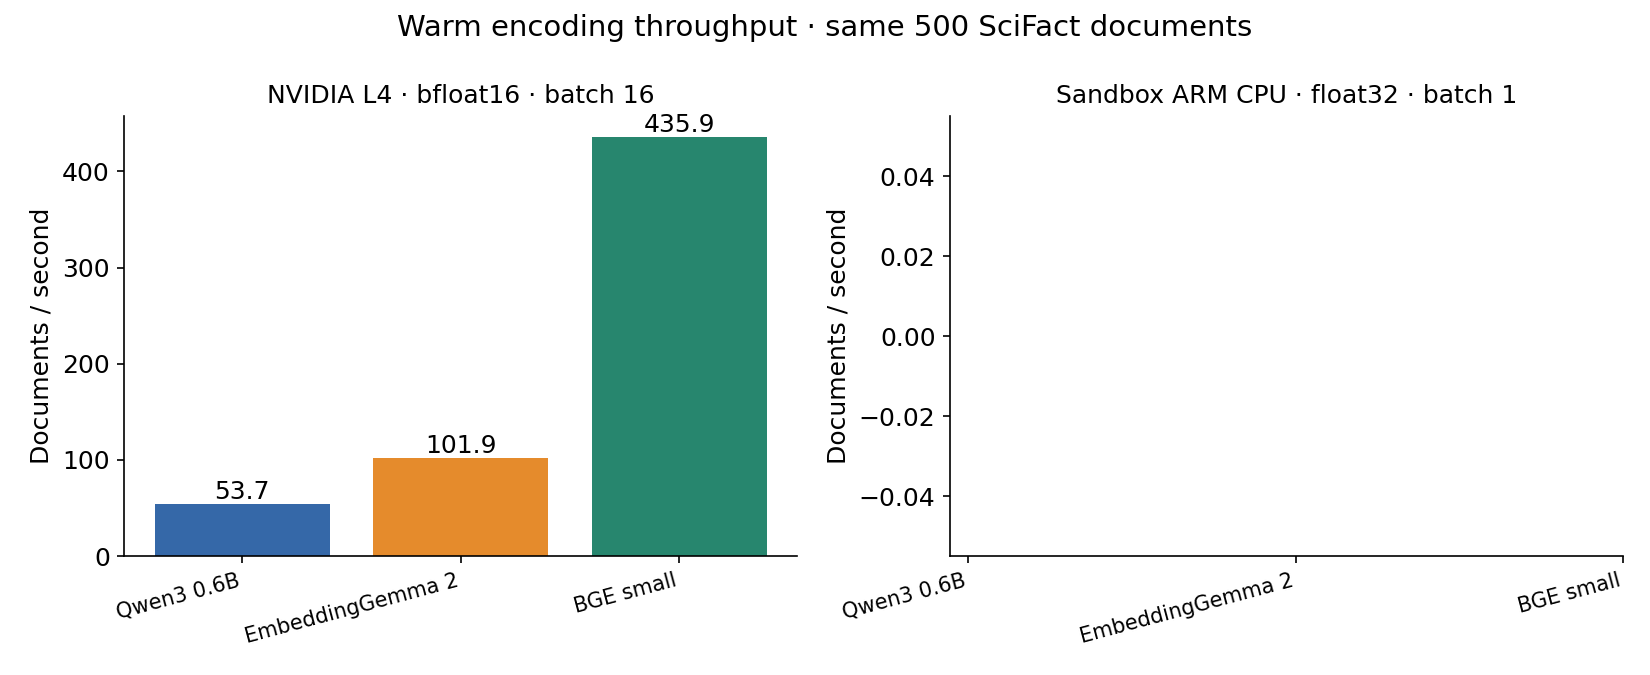
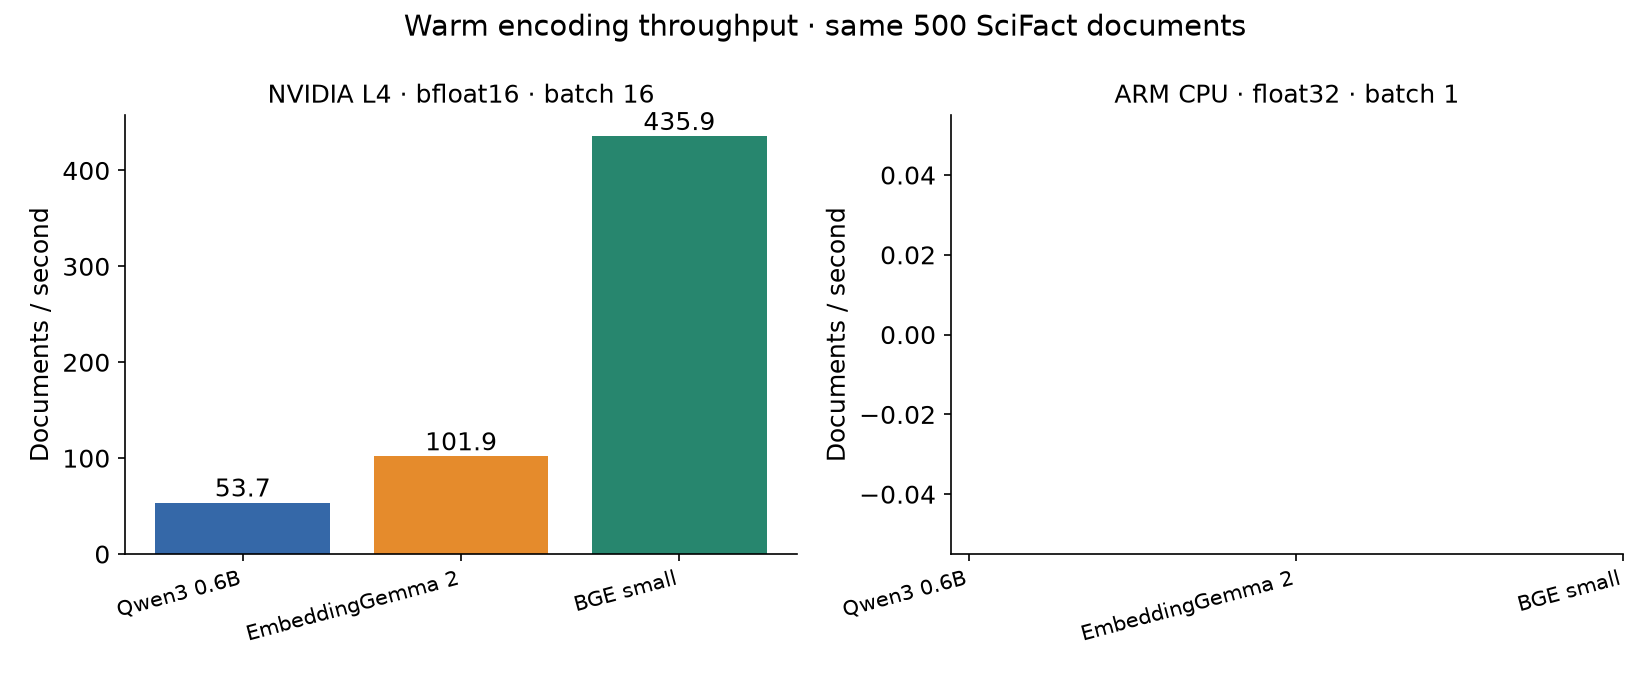
Rename internal IDs to descriptive names

diff --git a/scripts/make_writeup.py b/scripts/make_writeup.py
@@ -11,7 +11,7 @@ sv='INCONCLUSIVE' if any(speed[k,d] is None for k in ['qwen','gemma'] for d in [
 qv=h['quality_verdict'];verdict='DISPROVEN' if 'DISPROVEN' in [qv,sv] else 'PROVEN' if qv==sv=='PROVEN' else 'INCONCLUSIVE'
 ver={'overall':verdict,'quality':qv,'speed_size':sv};(R/'verdict.json').write_text(json.dumps(ver,indent=2))
 lines=[f"# {h['winner']} found {h['relative_recall10_pct']:.1f}% more relevant documents",'',
-f"Experiment 098 · Hari's Tech in General · Measured 17 October 2026",'',
+f"Hari's Tech in General · Measured 17 October 2026",'',
 f"**Verdict: {verdict}** for the joint hypothesis that Qwen wins English quality while EmbeddingGemma is faster and smaller. The predeclared English-quality test is **{qv}**; the speed-and-size test is **{sv}**.",'',
 f"The headline compares the two principal models at ten retrieval slots, using the equal-dataset mean of query-level Recall@10; its paired-bootstrap 95% interval is **{h['lo']:.2f}% to {h['hi']:.2f}%** relative improvement. It describes the share of judged relevant documents recovered, not a raw count pooled across unequal datasets.",'',
 'The headline recall interval only narrowly clears zero; this is borderline evidence for the recall gain. The stronger statistical result is the predeclared ranking-quality comparison below.','',
@@ -31,11 +31,11 @@ for ds in DS+['macro']:
 lines+=['','The primary comparison is Qwen minus Google in equal-dataset macro nDCG@10. We drew 10,000 paired bootstrap samples, resampling queries within each dataset with seed 98. The interval must exclude zero in Qwen’s favor to prove its quality hypothesis; excluding zero against Qwen disproves it. These are pointwise 95% intervals without multiplicity adjustment; only the predeclared macro nDCG comparison determines the quality verdict. They reflect query sampling within these benchmarks, not uncertainty over all future domains.','','| Macro paired difference: Qwen − Google | Points | 95% CI |','|---|---:|---:|']
 for m in ['ndcg10','recall10','recall100']:
  z=p[(p.a=='qwen')&(p.b=='gemma')&(p.dataset=='macro')&(p.metric==m)].iloc[0];lines.append(f"| {m} | {100*z.difference:+.2f} | [{100*z.lo:+.2f}, {100*z.hi:+.2f}] |")
-lines+=['','Google’s average advantage came mainly from SciFact; Qwen won ArguAna. This domain crossover is a reason to test an embedder on your own corpus. All per-dataset paired intervals, including baseline comparisons, are saved in `results/paired_differences.csv`.','','## Size and encoding speed','','One warmed timed pass over the same first 500 SciFact documents (sorted IDs), excluding download, load, and search. L4 uses bfloat16 and batch 16; the two-core ARM Neoverse-V2 sandbox uses float32 and batch 1, with two Torch threads. The clock includes tokenizer, forward pass, normalization, and returning NumPy embeddings. Different prompts yield slightly different token counts.','','| Model | Loaded parameters | Native dimensions | L4 docs/s | CPU docs/s |','|---|---:|---:|---:|---:|']
+lines+=['','Google’s average advantage came mainly from SciFact; Qwen won ArguAna. This domain crossover is a reason to test an embedder on your own corpus. All per-dataset paired intervals, including baseline comparisons, are saved in `results/paired_differences.csv`.','','## Size and encoding speed','','One warmed timed pass over the same first 500 SciFact documents (sorted IDs), excluding download, load, and search. L4 uses bfloat16 and batch 16; the two-core ARM Neoverse-V2 CPU uses float32 and batch 1, with two Torch threads. The clock includes tokenizer, forward pass, normalization, and returning NumPy embeddings. Different prompts yield slightly different token counts.','','| Model | Loaded parameters | Native dimensions | L4 docs/s | CPU docs/s |','|---|---:|---:|---:|---:|']
 for k in KS:
  fmt=lambda v:'unavailable' if v is None else f'{v:.2f}'
  lines.append(f"| {names[k]} | {models[k]['parameters']/1e6:.1f}M | {models[k]['embedding_dim']} | {fmt(speed[k,'gpu'])} | {fmt(speed[k,'cpu'])} |")
-lines+=['','EmbeddingGemma 2’s full multimodal checkpoint is approximately 744M parameters; only its approximately 271M text backbone is loaded here. Parameter counts describe the deployed text configurations, not the total bytes of every downloadable model artifact. The size claim therefore applies to text-only deployment.','','![Warm document encoding throughput](figures/speed.png)','','Speed is a single-pass observation, with no throughput confidence interval. It is conditional on these batch sizes, document lengths, dtypes, software, and shared sandbox conditions; it is not a claim about every CPU or serving stack. All final L4 runs use upstream Transformers 5.21.0.dev0 (commit recorded in the logs), required for the newly released Google architecture. Initial Qwen/BGE results on 5.18.0 are archived separately and excluded from the final comparison; both models were rerun on the common stack. All final CPU models also use the same pinned Transformers 5.21.0.dev0 commit, with PyTorch 2.14.1+cpu; the isolated package install is recorded in the logs. Full package snapshots and checkpoint revisions are archived.','','## Hindi and Telugu mini-check','']
+lines+=['','EmbeddingGemma 2’s full multimodal checkpoint is approximately 744M parameters; only its approximately 271M text backbone is loaded here. Parameter counts describe the deployed text configurations, not the total bytes of every downloadable model artifact. The size claim therefore applies to text-only deployment.','','![Warm document encoding throughput](figures/speed.png)','','Speed is a single-pass observation, with no throughput confidence interval. It is conditional on these batch sizes, document lengths, dtypes, software, and shared host conditions; it is not a claim about every CPU or serving stack. All final L4 runs use upstream Transformers 5.21.0.dev0 (commit recorded in the logs), required for the newly released Google architecture. Initial Qwen/BGE results on 5.18.0 are archived separately and excluded from the final comparison; both models were rerun on the common stack. All final CPU models also use the same pinned Transformers 5.21.0.dev0 commit, with PyTorch 2.14.1+cpu; the isolated package install is recorded in the logs. Full package snapshots and checkpoint revisions are archived.','','## Hindi and Telugu mini-check','']
 mini=s[s.dataset.isin(['miracl_hi','miracl_te'])]
 if len(mini):
  lines+=['This is an **exploratory pooled-candidate diagnostic**, not full MIRACL retrieval. For each language we took the first 200 lexicographic dev query IDs, included all their judged positive documents, and added the first 1,000 other corpus documents. Candidate construction uses relevance labels and is deliberately easier than searching the complete corpus; these scores must not be compared with MIRACL leaderboard values or used to claim broad multilingual superiority.','','| Language | Queries | Candidate docs | Model | nDCG@10 | Recall@10 | Recall@100 |','|---|---:|---:|---|---:|---:|---:|']
@@ -48,7 +48,7 @@ if len(mini):
    lines.append('| '+' | '.join([lang,str(len(d['queries'])),str(len(d['corpus'])),names[k]]+vals)+' |')
  lines+=['','![Exploratory multilingual pooled retrieval](figures/multilingual.png)']
 else:lines+=['No multilingual measurements completed; see saved feasibility/error artifacts. This optional check does not change the English verdict.']
-lines+=['','## Plain-English takeaway','',f"{h['winner']} retrieved slightly more known relevant material on average across these three English tests. Qwen did better on argument retrieval, so test your own documents before choosing a model.",'','## Limits and reproducibility','','These are three small, public benchmarks that may have appeared in model training; we cannot measure training contamination. The 512-token cap truncates long material and suppresses the models’ larger context windows. BGE is an English-focused baseline, so its Hindi/Telugu check is outside its intended specialization. Unjudged documents are treated as nonrelevant, as in benchmark evaluation. No inference-service APIs, private data, or model tuning were used.','','`README.md` contains the pre-measurement plan and recorded corrections. Raw per-query metrics, top-100 English rankings, qrels/data snapshots, revisions, timing JSON, paired intervals, and an independent metric reconstruction check are in `results/`; scripts are resumable. `figures/colab_run.txt` includes GPU identification and timing evidence. GPU lifetime/CU accounting and the local commit are documented with the delivered experiment.']
+lines+=['','## Plain-English takeaway','',f"{h['winner']} retrieved slightly more known relevant material on average across these three English tests. Qwen did better on argument retrieval, so test your own documents before choosing a model.",'','## Limits and reproducibility','','These are three small, public benchmarks that may have appeared in model training; we cannot measure training contamination. The 512-token cap truncates long material and suppresses the models’ larger context windows. BGE is an English-focused baseline, so its Hindi/Telugu check is outside its intended specialization. Unjudged documents are treated as nonrelevant, as in benchmark evaluation. No inference-service APIs, private data, or model tuning were used.','','`README.md` contains the pre-measurement plan and recorded corrections. Raw per-query metrics, top-100 English rankings, qrels/data snapshots, revisions, timing JSON, paired intervals, and an independent metric reconstruction check are in `results/`; scripts are resumable. `figures/colab_run.txt` includes GPU identification and timing evidence. GPU lifetime/CU accounting is recorded in `results/compute_usage.json`.']
 if (R/'linear_gain_summary.csv').exists():
  z=pd.read_csv(R/'linear_gain_summary.csv');d=json.load(open(R/'linear_gain_paired_macro.json'))
  extra=['## BEIR definition sensitivity','','For readers comparing with BEIR/trec_eval, the supplemental table uses linear gains in nDCG@10; the fixed primary test above retains exponential gains. The two definitions differ only on graded NFCorpus judgments in these datasets.','','| Equal-dataset mean | Linear nDCG@10 ×100 [95% CI] |','|---|---:|']
@@ -57,6 +57,6 @@ if (R/'linear_gain_summary.csv').exists():
  extra+=['',f"The paired linear-gain macro difference (Qwen − Google) is {100*d['difference']:+.2f} points [95% CI {100*d['lo']:+.2f}, {100*d['hi']:+.2f}]. This is a definition sensitivity, not an alternative decision rule.",'']
  ix=lines.index('## Size and encoding speed');lines[ix:ix]=extra
 u=json.load(open(R/'compute_usage.json'))
-lines+=['','## Compute accounting','',f"NVIDIA L4; session `b6-098` stopped. Resumed allocation: approximately {u['resumed_lifetime_estimated_cu']:.3f} CU from lifetime × 1.54 CU/hour. Including the interrupted allocation, attributable usage is bounded at approximately **{u['total_cu_bounds'][0]:.2f}–{u['total_cu_bounds'][1]:.2f} CU**; its exact termination time was lost, so an exact billing total is unavailable. The account balance also includes concurrent experiments and is not used as this experiment’s cost. See `results/compute_usage.json` and `figures/colab_stop.txt`."]
+lines+=['','## Compute accounting','',f"NVIDIA L4; session `embedding-comparison` stopped. Resumed allocation: approximately {u['resumed_lifetime_estimated_cu']:.3f} CU from lifetime × 1.54 CU/hour. Including the interrupted allocation, attributable usage is bounded at approximately **{u['total_cu_bounds'][0]:.2f}–{u['total_cu_bounds'][1]:.2f} CU**; its exact termination time was lost, so an exact billing total is unavailable. The account balance also includes concurrent experiments and is not used as this experiment’s cost. See `results/compute_usage.json` and `figures/colab_stop.txt`."]
 Path('writeup.md').write_text('\n'.join(lines)+'\n')
 print(json.dumps(ver,indent=2))

diff --git a/scripts/resume_restore.py b/scripts/resume_restore.py
@@ -1,7 +1,7 @@
 import tarfile,subprocess,shutil,json,time
 from pathlib import Path
-r=Path('/content/exp098');r.mkdir(exist_ok=True)
-with tarfile.open('/content/restore098.tar.gz') as t:t.extractall(r,filter='data')
+r=Path('/content/embedding-comparison');r.mkdir(exist_ok=True)
+with tarfile.open('/content/restore_embeddings.tar.gz') as t:t.extractall(r,filter='data')
 p=r/'results/miracl_te_data.json';p.parent.mkdir(exist_ok=True);shutil.copy('/content/miracl_te_data.json',p)
 a=r/'results/initial_stack';a.mkdir(exist_ok=True)
 for k in ['qwen','bge']:
@@ -10,7 +10,7 @@ for k in ['qwen','bge']:
   elif p.name.endswith(('_metrics.csv','_top100.json','_gpu_speed.json')):shutil.move(p,a/p.name)
 script="""import subprocess,time,json
 from pathlib import Path
-r=Path('/content/exp098')
+r=Path('/content/embedding-comparison')
 while not Path('/content/install_done').exists():time.sleep(2)
 with open(r/'resume_run.log','a') as f:
  for s in ['/content/run_eval.py','/content/mini_multilingual.py']:

diff --git a/scripts/resume_install.py b/scripts/resume_install.py
@@ -4,6 +4,6 @@ script="""import subprocess
 p=subprocess.run(['pip','install','--no-deps','--upgrade','git+https://github.com/huggingface/transformers.git@8498ed425fa01bbee7d086efdf1a6634c2962aed'],check=True)
 open('/content/install_done','w').write('ok')
 """
-Path('/content/install098.py').write_text(script)
-p=subprocess.Popen(['python','-u','/content/install098.py'],stdout=open('/content/install098.log','w'),stderr=subprocess.STDOUT,start_new_session=True)
+Path('/content/install_embeddings.py').write_text(script)
+p=subprocess.Popen(['python','-u','/content/install_embeddings.py'],stdout=open('/content/install_embeddings.log','w'),stderr=subprocess.STDOUT,start_new_session=True)
 print('installer PID',p.pid)

diff --git a/scripts/analyze.py b/scripts/analyze.py
@@ -48,7 +48,7 @@ for k in KS:
  speeds.append(row)
 pd.DataFrame(speeds).to_csv(R/'speeds.csv',index=False)
 fig,axes=plt.subplots(1,2,figsize=(11,4.5))
-for ax,dev,title in zip(axes,['gpu','cpu'],['NVIDIA L4 · bfloat16 · batch 16','Sandbox ARM CPU · float32 · batch 1']):
+for ax,dev,title in zip(axes,['gpu','cpu'],['NVIDIA L4 · bfloat16 · batch 16','ARM CPU · float32 · batch 1']):
  vals=[x[dev] for x in speeds];ax.bar(range(3),vals,color=colors);ax.set_xticks(range(3),[NAMES[k] for k in KS],rotation=15,ha='right',fontsize=10);ax.set_ylabel('Documents / second');ax.set_title(title,fontsize=12)
  for i,v in enumerate(vals):
   if np.isfinite(v):ax.text(i,v,f'{v:.1f}',ha='center',va='bottom')

diff --git a/scripts/plot_speed.py b/scripts/plot_speed.py
@@ -14,7 +14,7 @@ for k in KS:
  speeds.append(row)
 pd.DataFrame(speeds).to_csv(R/'speeds.csv',index=False)
 fig,axes=plt.subplots(1,2,figsize=(11,4.5))
-for ax,dev,title in zip(axes,['gpu','cpu'],['NVIDIA L4 · bfloat16 · batch 16','Sandbox ARM CPU · float32 · batch 1']):
+for ax,dev,title in zip(axes,['gpu','cpu'],['NVIDIA L4 · bfloat16 · batch 16','ARM CPU · float32 · batch 1']):
  vals=[x[dev] for x in speeds];ax.bar(range(3),vals,color=colors);ax.set_xticks(range(3),[NAMES[k] for k in KS],rotation=15,ha='right',fontsize=10);ax.set_ylabel('Documents / second');ax.set_title(title,fontsize=12)
  for i,v in enumerate(vals):
   if np.isfinite(v):ax.text(i,v,f'{v:.1f}',ha='center',va='bottom')

diff --git a/scripts/run_eval.py b/scripts/run_eval.py
@@ -4,7 +4,7 @@ os.environ['TOKENIZERS_PARALLELISM']='false'
 import numpy as np,torch,pandas as pd
 from huggingface_hub import HfApi,hf_hub_download
 from sentence_transformers import SentenceTransformer
-ROOT=Path(os.environ.get('EXP_ROOT','/content/exp098')); ROOT.mkdir(exist_ok=True,parents=True)
+ROOT=Path(os.environ.get('EXP_ROOT','/content/embedding-comparison')); ROOT.mkdir(exist_ok=True,parents=True)
 R=ROOT/'results'; R.mkdir(exist_ok=True)
 MODELS={'qwen':'Qwen/Qwen3-Embedding-0.6B','gemma':'google/embeddinggemma-2','bge':'BAAI/bge-small-en-v1.5'}
 def save(p,d):

diff --git a/scripts/snapshot.py b/scripts/snapshot.py
@@ -1,7 +1,7 @@
 from pathlib import Path
 import tarfile
-root=Path('/content/exp098')
-with tarfile.open('/content/exp098_snapshot.tar.gz','w:gz') as t:
+root=Path('/content/embedding-comparison')
+with tarfile.open('/content/embedding-comparison_snapshot.tar.gz','w:gz') as t:
  for p in root.rglob('*'):
   if p.is_file() and p.suffix!='.npy':t.add(p,arcname=str(p.relative_to(root)))
-print('snapshot bytes',Path('/content/exp098_snapshot.tar.gz').stat().st_size)
+print('snapshot bytes',Path('/content/embedding-comparison_snapshot.tar.gz').stat().st_size)

diff --git a/scripts/resume_status.py b/scripts/resume_status.py
@@ -1,5 +1,5 @@
 from pathlib import Path
 import subprocess
 print(subprocess.getoutput('nvidia-smi'))
-for f in ['/content/install098.log','/content/install_done','/content/exp098/resume_run.log','/content/exp098/resume_pipeline.log','/content/exp098/complete.json']:
+for f in ['/content/install_embeddings.log','/content/install_done','/content/embedding-comparison/resume_run.log','/content/embedding-comparison/resume_pipeline.log','/content/embedding-comparison/complete.json']:
  p=Path(f);print(f,p.read_text()[-2000:] if p.exists() else 'absent')

diff --git a/scripts/launch.py b/scripts/launch.py
@@ -1,4 +1,4 @@
 import subprocess,os
-os.makedirs('/content/exp098',exist_ok=True)
-p=subprocess.Popen(['python','-u','/content/run_eval.py'],stdout=open('/content/exp098/run.log','a'),stderr=subprocess.STDOUT,start_new_session=True)
+os.makedirs('/content/embedding-comparison',exist_ok=True)
+p=subprocess.Popen(['python','-u','/content/run_eval.py'],stdout=open('/content/embedding-comparison/run.log','a'),stderr=subprocess.STDOUT,start_new_session=True)
 print('PID',p.pid)

diff --git a/scripts/record_stop.py b/scripts/record_stop.py
@@ -1,3 +1,3 @@
 import json,datetime
 from pathlib import Path
-Path('results/session_stop.json').write_text(json.dumps({'stop_utc':datetime.datetime.now(datetime.timezone.utc).isoformat(),'session':'b6-098','command':'colab stop -s b6-098'},indent=2))
+Path('results/session_stop.json').write_text(json.dumps({'stop_utc':datetime.datetime.now(datetime.timezone.utc).isoformat(),'session':'embedding-comparison','command':'colab stop -s embedding-comparison'},indent=2))

diff --git a/scripts/status.py b/scripts/status.py
@@ -2,6 +2,6 @@ from pathlib import Path
 import subprocess
 print(subprocess.getoutput('nvidia-smi'))
 for name in ['run.log','mini.log','pipeline.log']:
- p=Path('/content/exp098')/name
+ p=Path('/content/embedding-comparison')/name
  print(name, p.read_text()[-4500:] if p.exists() else 'absent')
-print([p.name for p in Path('/content/exp098/results').glob('*')])
+print([p.name for p in Path('/content/embedding-comparison/results').glob('*')])

diff --git a/scripts/launch_consistent.py b/scripts/launch_consistent.py
@@ -1,3 +1,3 @@
 import subprocess
-p=subprocess.Popen(['python','-u','/content/consistent_stack.py'],stdout=open('/content/exp098/consistent_stack.log','a'),stderr=subprocess.STDOUT,start_new_session=True)
+p=subprocess.Popen(['python','-u','/content/consistent_stack.py'],stdout=open('/content/embedding-comparison/consistent_stack.log','a'),stderr=subprocess.STDOUT,start_new_session=True)
 print('FINALIZER PID',p.pid)
